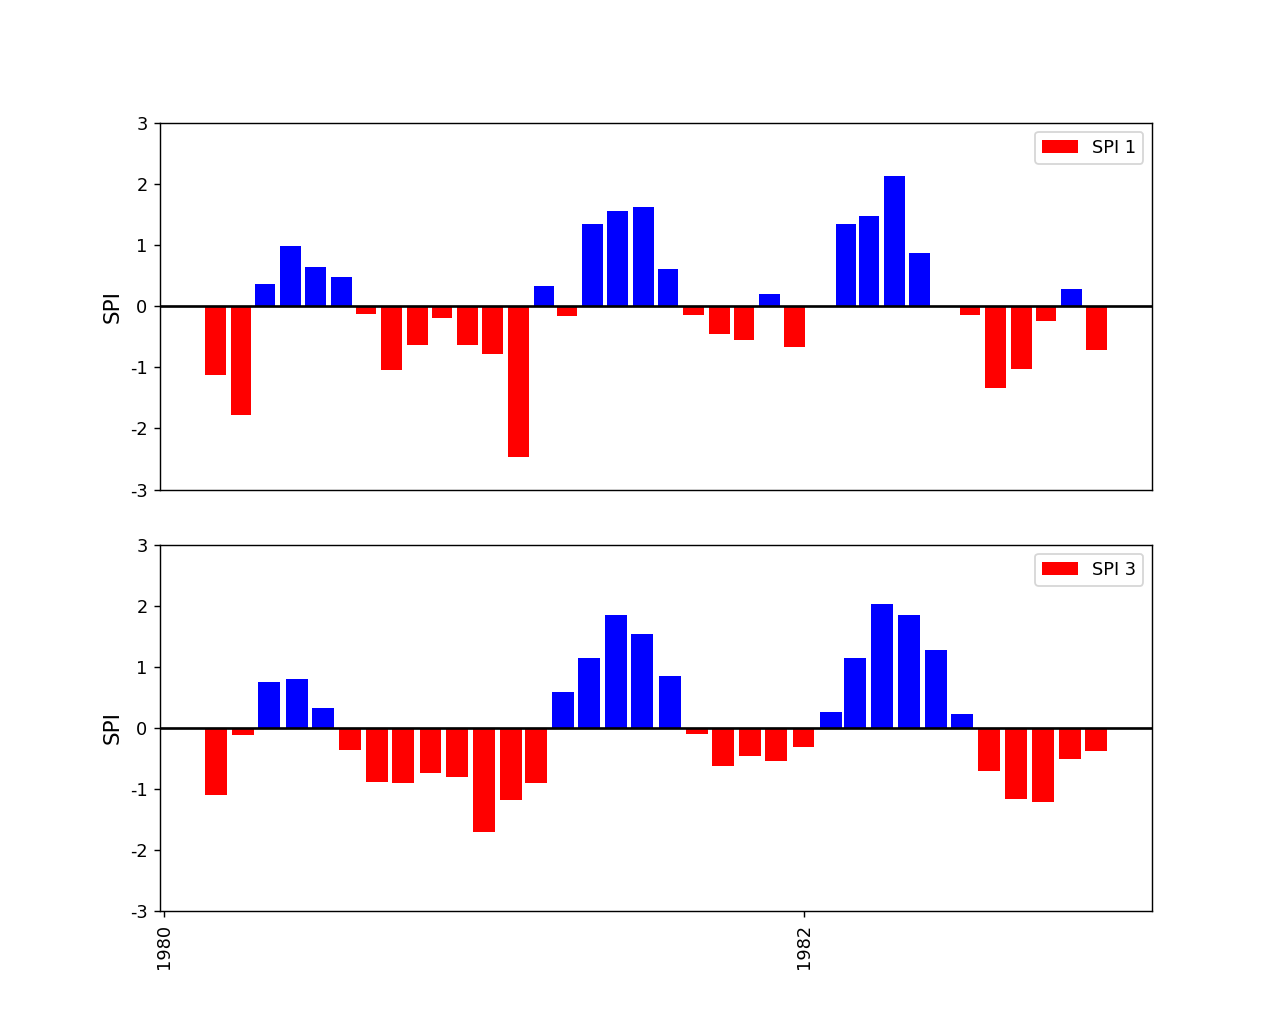
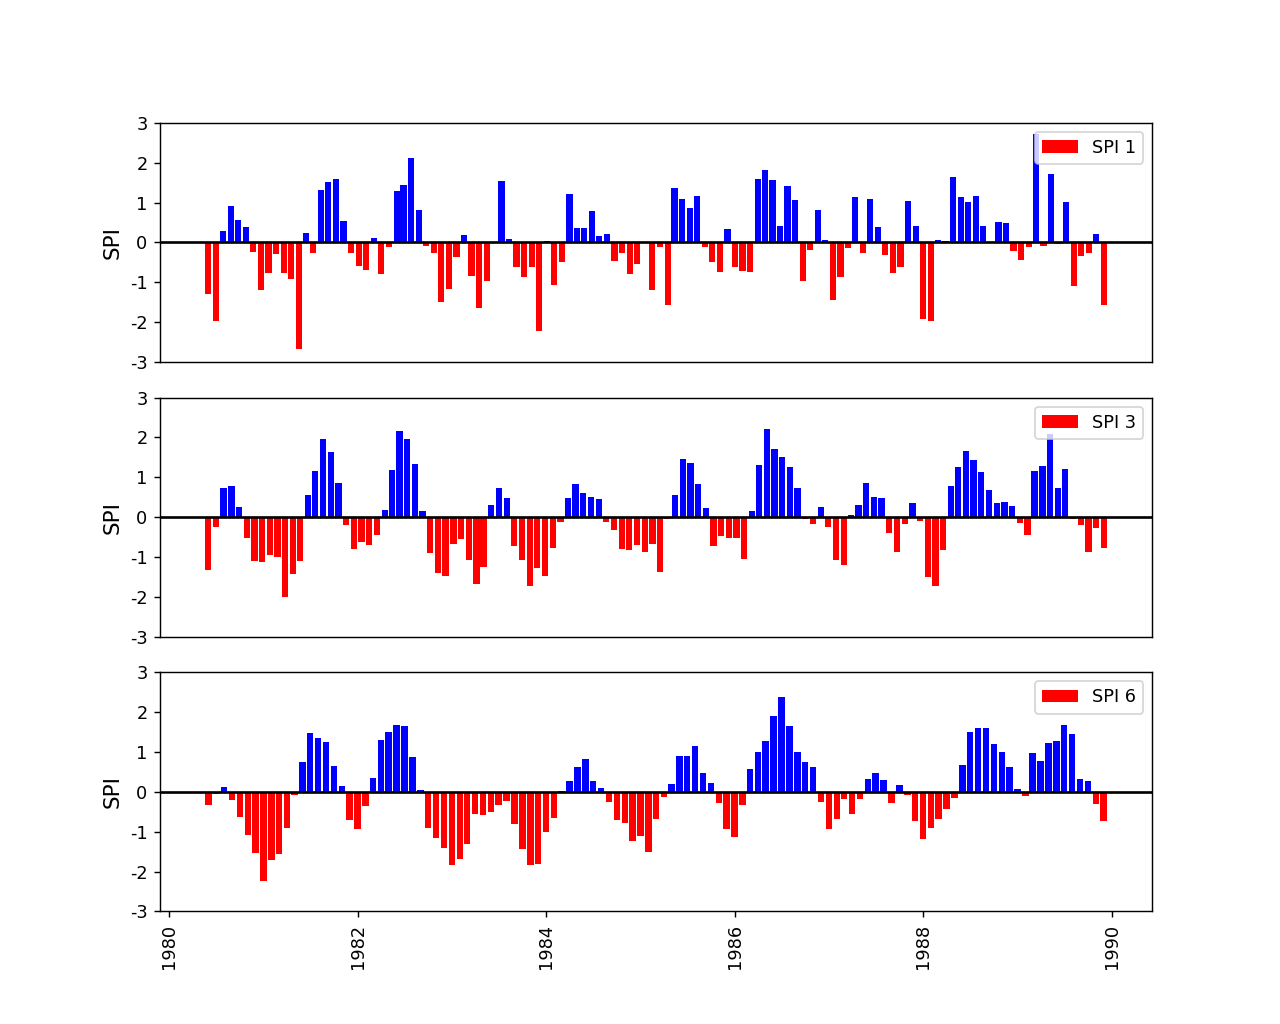
General update.

diff --git a/.src/sawb.py b/.src/sawb.py
@@ -180,7 +180,7 @@ if polygon_eval:
             print('\nAttention: datasource %s doesn''t exist or nor defined' %data_source_num)
     # Export .nc with SPI calculations over ZE as .csv & .nc
     df = da_data.to_dataframe()
-    sawbf.print_log(file_log, '\n\n#### Output datasets\n\n* Dataset as comma-separated values: [%s_spi_polygon.csv](spi/)' % data_source[data_source_num])
+    sawbf.print_log(file_log, '\n\n#### Output sliced datasets\n\n* Dataset as comma-separated values: [%s_spi_polygon.csv](spi/)' % data_source[data_source_num])
     df.to_csv(ppoi_path+'spi/'+str(data_source[data_source_num])+'_spi_polygon.csv', encoding='utf-8', index=True)
     if save_spi_nc:
         sawbf.print_log(file_log, '\n* Dataset as NetCDF: [%s_spi_polygon.nc](spi/)' % data_source[data_source_num])
@@ -220,26 +220,29 @@ if point_eval:
         case _:
             print('\nAttention: datasource %s doesn''t exist or nor defined' % data_source_num)
     ds_rr_select.plot(figsize=(10, 7))
-    p_fig = 'spi/'+data_source[data_source_num]+'_p_point.png'
-    plt.savefig(ppoi_path+p_fig, dpi=dpi)
+    p_fig = 'spi/'+data_source[data_source_num]+'_p_point'
+    plt.savefig(ppoi_path+p_fig+'.png', dpi=dpi)
     if show_plot: plt.show()
-    sawbf.print_log(file_log, '\n\n![R.SAWB](%s)' % p_fig)
+    #sawbf.print_log(file_log, '\n\n#### Initial sliced dataframe')
+    sawbf.print_log(file_log, '\n\n![R.SAWB](%s)\n' % (p_fig+'.png'))
     df = ds_rr_select.to_dataframe()
-    sawbf.print_log(file_log, '\n\n#### Initial dataframe\n\n')
+    sawbf.print_log(file_log,'\nDataset as comma-separated values: [%s_point.csv](spi/)' % data_source[data_source_num])
     sawbf.print_log(file_log, df.T.to_markdown(), center_div=True)
-    point_csv_file = ppoi_path+'spi/'+data_source[data_source_num]+'_p_point.csv'
+    point_csv_file = ppoi_path+p_fig+'.csv'
     df.to_csv(point_csv_file, encoding='utf-8', index=True)
     # SPI calculation
     data = pd.read_csv(point_csv_file)
     data['time'] = pd.to_datetime(data['time'])
-    print(data.dtypes)
+    #print(data.dtypes)
     data = data.set_index('time')
-    print(data.dtypes)
+    #print('\n\nData types:\n%s' %data.dtypes)
     for i in times:
         x = sawbf.spi_point(data[feature_name[data_source_num]], i)
         data['spi_' + str(i)] = x[9]
-    print('\nDataframe with SPI calculations\n', data)
+    #print('\nDataframe with SPI calculations\n', data)
     data.to_csv(ppoi_path+'spi/'+data_source[data_source_num]+'_spi_point.csv', encoding='utf-8', index=True)
+    sawbf.print_log(file_log,'\nDataset with SPI calculations as comma-separated values: [%s_spi_point.csv](spi/)\n' % data_source[data_source_num])
+    sawbf.print_log(file_log, data.T.to_markdown(), center_div=True)
     # Plot SPI data
     fig, axes = plt.subplots(nrows=len(times), figsize=(10, 8))
     plt.subplots_adjust(hspace=0.15)
@@ -256,9 +259,11 @@ if point_eval:
             ax.set_xticks([], [])
         plt.xticks(rotation=90)
         #plt.title(plt_title)
-    plt.savefig(ppoi_path + 'spi/' + data_source[data_source_num] + '_spi_point.png', dpi=dpi)
+    spi_fig = 'spi/' + data_source[data_source_num] + '_spi_point.png'
+    plt.savefig(ppoi_path+spi_fig, dpi=dpi)
     if show_plot: plt.show()
     plt.close('all')
+    sawbf.print_log(file_log, '\n\n![R.SAWB](%s)\n' %spi_fig)
 
 
 # *****************************************************************************************

diff --git a/.ppoi/1/ppoi.py b/.ppoi/1/ppoi.py
@@ -13,7 +13,7 @@ data_source_num = 1  # 0:CRU, 1:ERA5-Reanalysis
 nc_file = 'ERA5Land_Monthly_01dd_ds1.nc'
 
 # SPI index mobile average times
-times = [1, 3]
+times = [1, 3, 6]
 
 # Units conversion multiplier & Maximum value for plotting ramp
 # CRU data uses precipitation in millimeters
@@ -28,7 +28,7 @@ lim_north = 5.735
 lim_south = 3.625
 lim_east = -72.875
 lim_west = -74.875
-polygon_eval = False
+polygon_eval = True
 
 # Point location in decimal degrees, °dd
 point_latitude = 4.6
@@ -37,7 +37,7 @@ point_eval = True
 
 # Year range
 year_min = 1980
-year_max = 1982
+year_max = 1989
 
 # AWB
 # Set awb_eval to False if you not executed ArcGIS for Desktop SAWB.tbx
